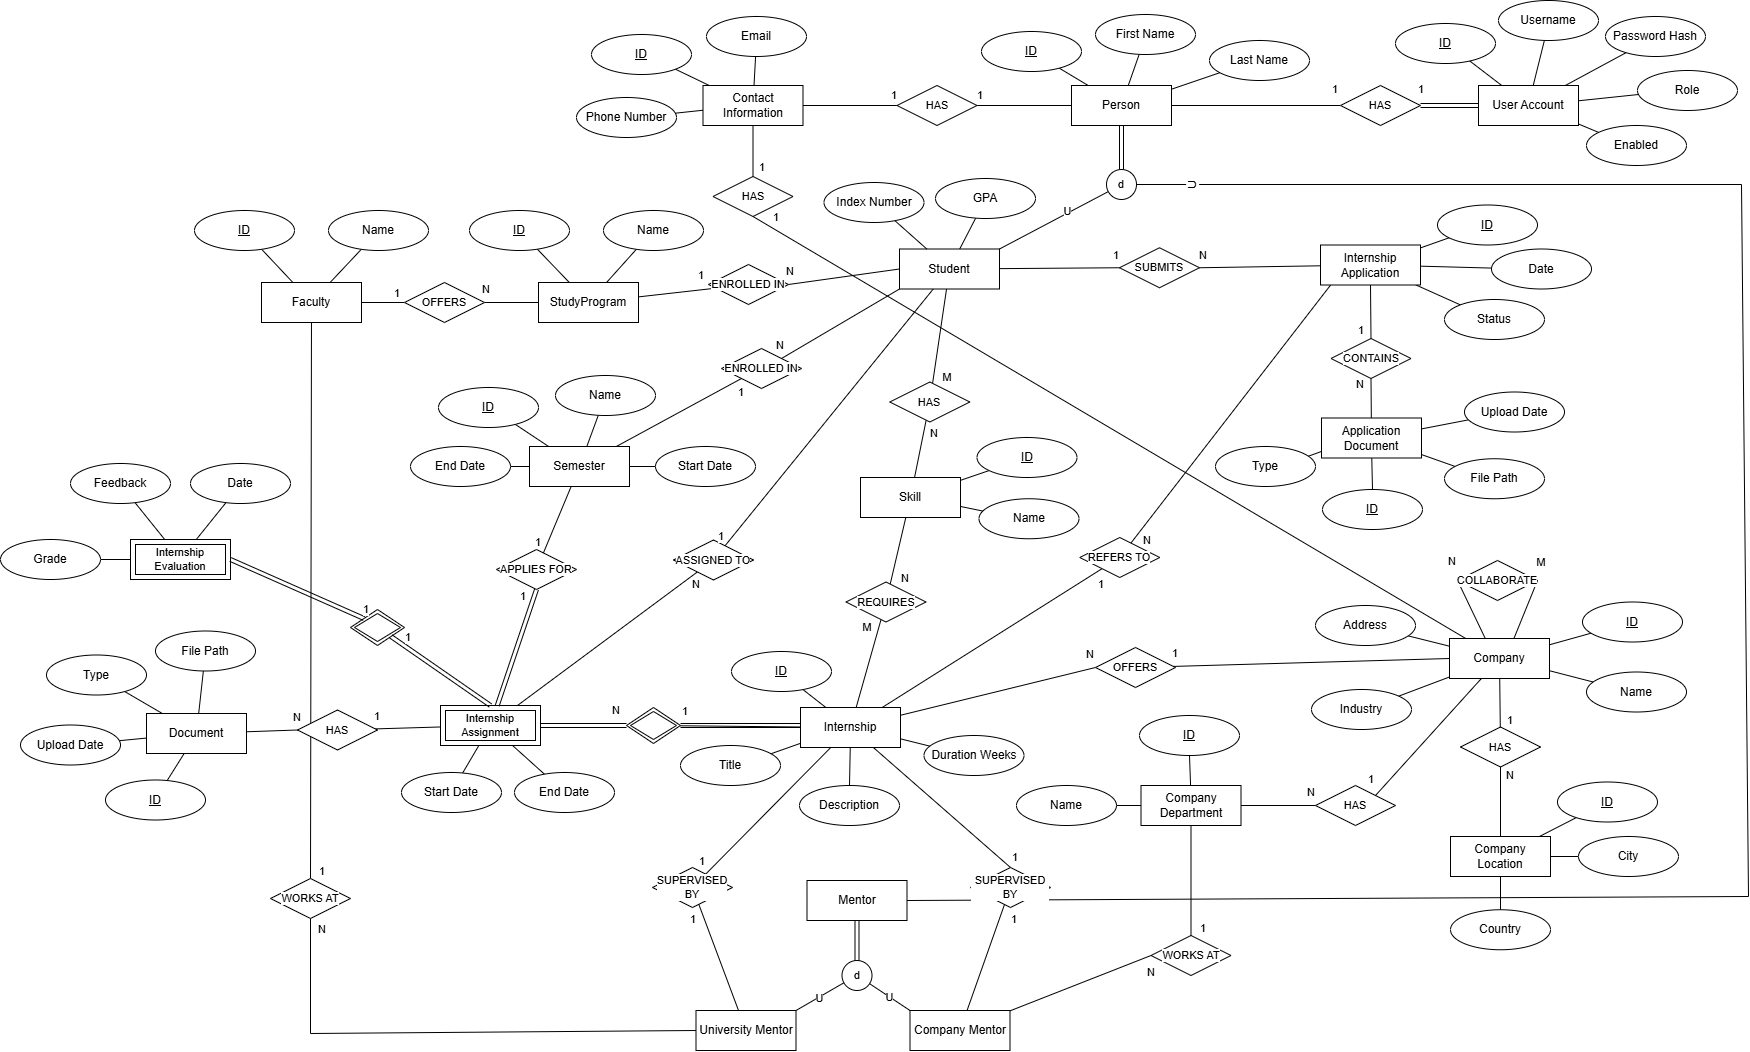
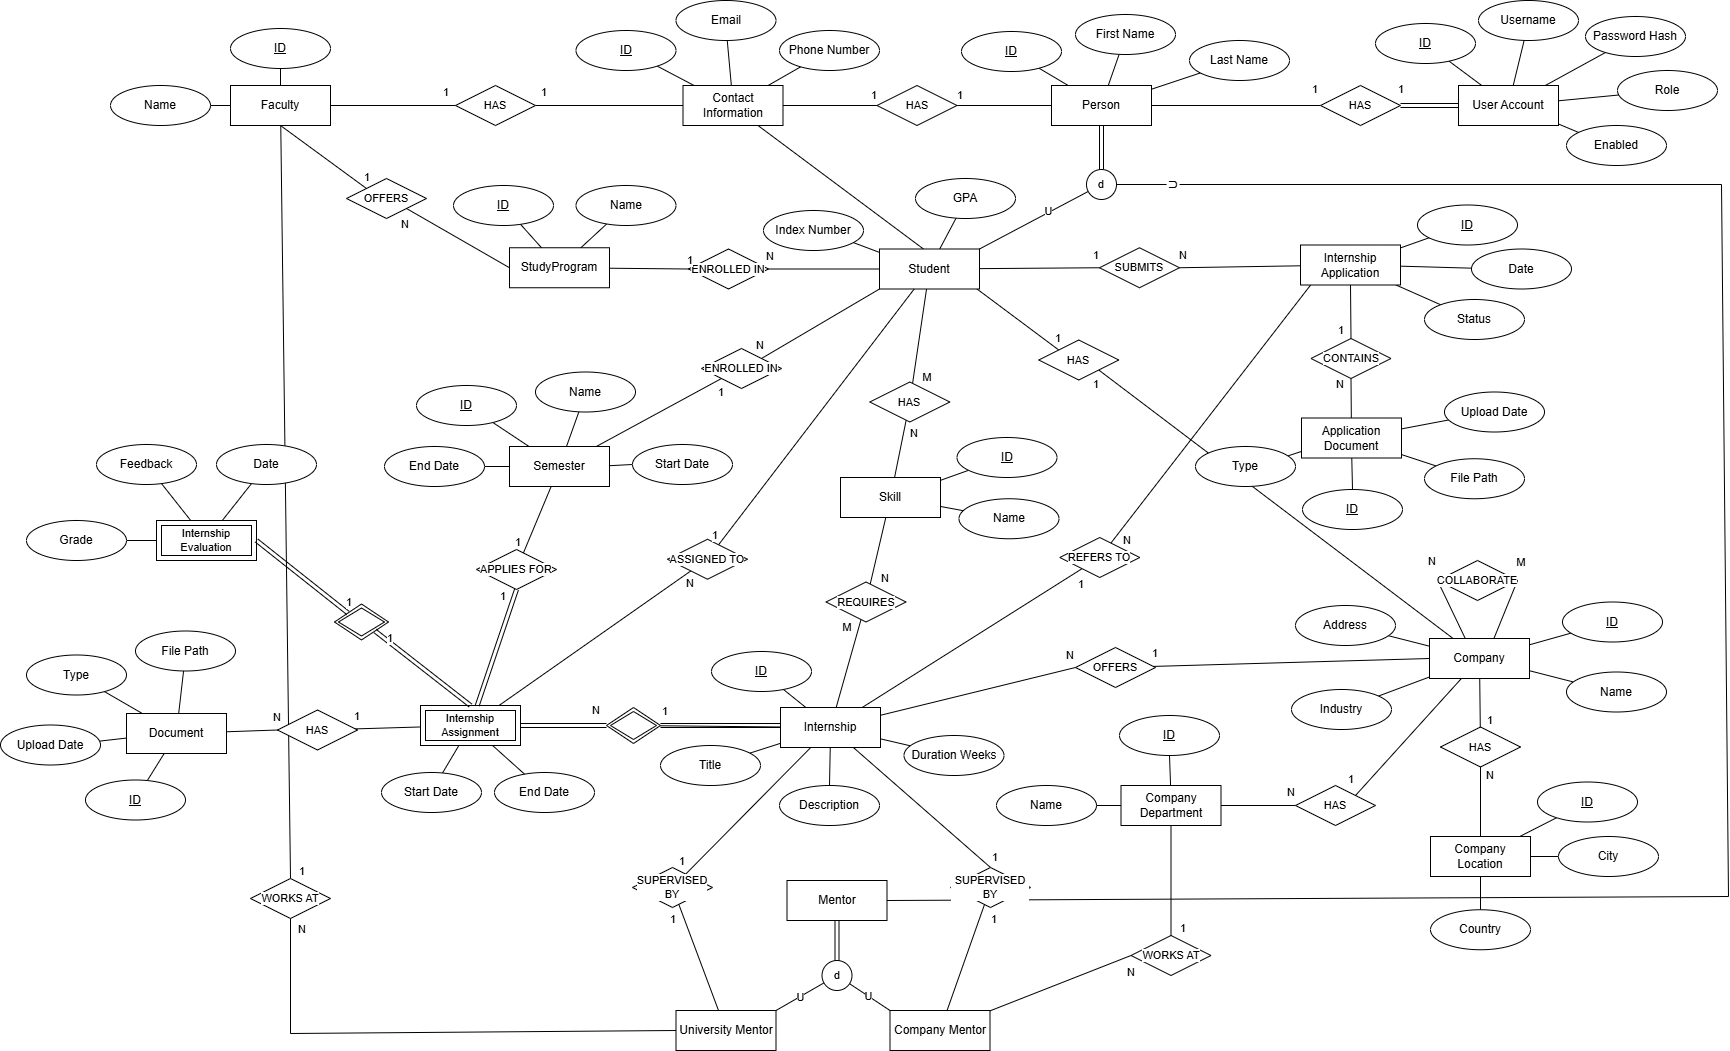
added relations

diff --git a/src/main/resources/templates/application-edit-form.html b/src/main/resources/templates/application-edit-form.html
@@ -168,7 +168,7 @@
     <br><br>
 
     <button type="submit">Save</button>
-    <a class="cancel" th:href="@{/company-mentor/supervise}">
+    <a class="cancel" th:href="@{/company-mentor/internships/{id}/applications(id=${internship.id})}">
       Cancel
     </a>
   </form>

diff --git a/src/main/java/com/trifunovska/internship/service/UserProfileService.java b/src/main/java/com/trifunovska/internship/service/UserProfileService.java
@@ -30,21 +30,23 @@ public class UserProfileService {
         if (person.getContactInformation() != null)
             dto.setEmail(person.getContactInformation().getEmail());
 
-        Student student = studentService.findByPersonId(person.getId());
-
-        if (account.getRole().equals(Role.STUDENT) && student != null) {
-            dto.setIndexNumber(student.getIndexNumber());
-            dto.setGpa(student.getGpa());
-            dto.setStudyProgram(student.getStudyProgram().getName());
-            dto.setFaculty(student.getStudyProgram().getFaculty().getName());
+        if (account.getRole().equals(Role.STUDENT)) {
+            Student student = studentService.findByPersonId(person.getId());
+            if (student != null) {
+                dto.setIndexNumber(student.getIndexNumber());
+                dto.setGpa(student.getGpa());
+                dto.setStudyProgram(student.getStudyProgram().getName());
+                dto.setFaculty(student.getStudyProgram().getFaculty().getName());
+            }
         }
 
-        CompanyMentor companyMentor = companyMentorService.findByPersonId(person.getId());
-
-        if (account.getRole().equals(Role.COMPANY_MENTOR) && companyMentor != null) {
-            dto.setCompany(companyMentorService.findCompany(companyMentor.getId()).getName());
-            dto.setDepartment(companyMentorService.findDepartment(companyMentor.getId()).getName());
-            dto.setOwningInternships(companyMentorService.countInternships(companyMentor.getId()));
+        if (account.getRole().equals(Role.COMPANY_MENTOR)) {
+            CompanyMentor companyMentor = companyMentorService.findByPersonId(person.getId());
+            if (companyMentor != null) {
+                dto.setCompany(companyMentorService.findCompany(companyMentor.getId()).getName());
+                dto.setDepartment(companyMentorService.findDepartment(companyMentor.getId()).getName());
+                dto.setOwningInternships(companyMentorService.countInternships(companyMentor.getId()));
+            }
         }
 
         return dto;

diff --git a/src/main/java/com/trifunovska/internship/model/Person.java b/src/main/java/com/trifunovska/internship/model/Person.java
@@ -22,6 +22,7 @@ public class Person {
     @Column(name = "last_name", nullable = false)
     private String lastName;
 
-    @OneToOne(mappedBy = "person", cascade = CascadeType.ALL, orphanRemoval = true)
+    @OneToOne(optional = false,  cascade = CascadeType.ALL)
+    @JoinColumn(name = "contact_id", nullable = false, unique = true)
     private ContactInformation contactInformation;
 }

diff --git a/src/main/java/com/trifunovska/internship/model/Faculty.java b/src/main/java/com/trifunovska/internship/model/Faculty.java
@@ -18,4 +18,8 @@ public class Faculty {
 
     @Column(nullable = false, unique = true)
     private String name;
+
+    @OneToOne(optional = false,  cascade = CascadeType.ALL)
+    @JoinColumn(name = "contact_id", nullable = false, unique = true)
+    private ContactInformation contactInformation;
 }

diff --git a/src/main/java/com/trifunovska/internship/model/Company.java b/src/main/java/com/trifunovska/internship/model/Company.java
@@ -22,4 +22,8 @@ public class Company {
     private String address;
 
     private String industry;
+
+    @OneToOne(optional = false,  cascade = CascadeType.ALL)
+    @JoinColumn(name = "contact_id", nullable = false, unique = true)
+    private ContactInformation contactInformation;
 }

diff --git a/src/main/java/com/trifunovska/internship/model/ContactInformation.java b/src/main/java/com/trifunovska/internship/model/ContactInformation.java
@@ -21,8 +21,4 @@ public class ContactInformation {
 
     @Column(name = "phone_number")
     private String phoneNumber;
-
-    @OneToOne(optional = false)
-    @JoinColumn(name = "person_id", nullable = false, unique = true)
-    private Person person;
 }
